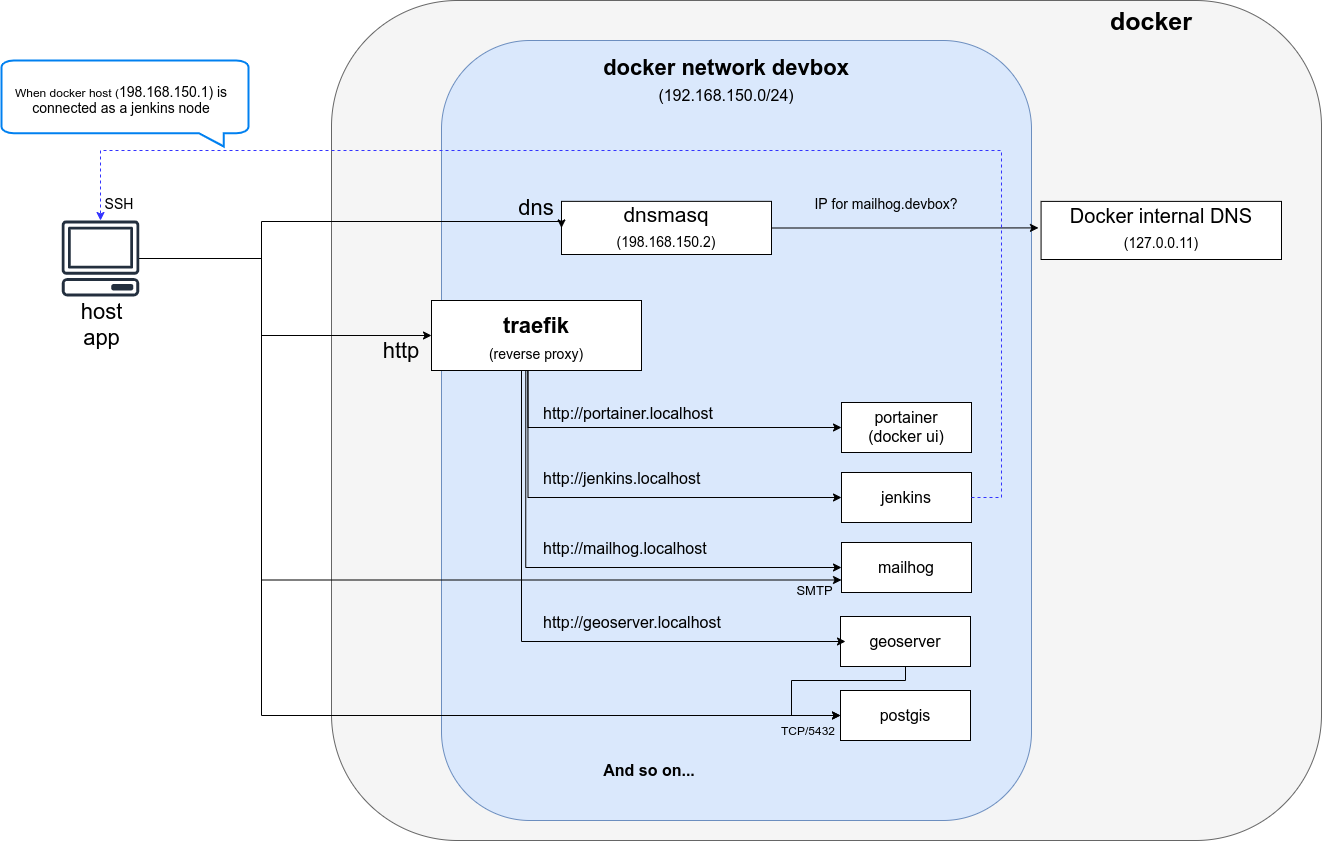
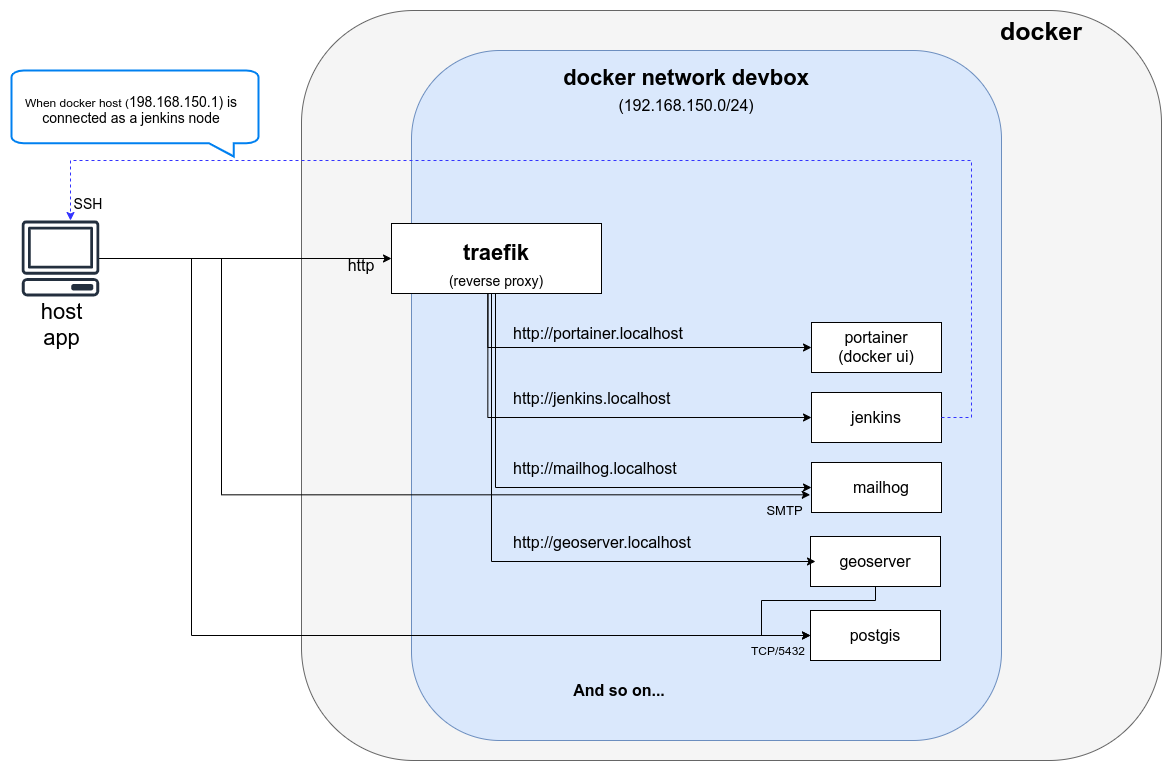
move out dnsmasq (closes #3)

diff --git a/README.md b/README.md
@@ -1,6 +1,6 @@
 # mborne/docker-devbox
 
-This repository provides a framework to setup a local dev environment with docker.
+This repository provides a framework to setup a **local dev environment** with docker.
 
 ## Key points
 
@@ -8,7 +8,6 @@ This repository provides a framework to setup a local dev environment with docke
 * [traefik](https://hub.docker.com/_/traefik) provides nice URL for web services (ex : http://kibana.localhost)
 * Containers run on the same network named `devbox` (`192.168.150.0/24`) to simplify communication between containers/stacks
 * Named volumes allows data persistence to ease the purge of running services
-* An optional [dnsmasq](dnsmasq/README.md) instance allows container name resolution from host (ex : `openldap.devbox`, `mailhog.devbox`, `postgis.devbox`, etc.) to avoid port exposure while coding new services on host
 
 It also provides a set of sample stacks (usual dependencies for my projects, sandbox, experiments, etc.)
 
@@ -32,36 +31,28 @@ docker network create -d bridge \
 
 * Run [traefik](traefik/README.md) ([whoami](whoami/README.md) provide a simple example to understand traefik)
 
-* Start [dnsmasq](dnsmasq/README.md) and add `192.168.150.2` as DNS server on host (optional)
-
-```bash
-cd dnsmasq
-docker-compose up -d
-# configure your system to add 192.168.150.2 as a DNS server...
-```
-
 
 ## Stacks
 
 ### Core services
 
-| Name                         | Description                                                                                          |
-| ---------------------------- | ---------------------------------------------------------------------------------------------------- |
-| [traefik](traefik/README.md) | Reverse proxy providing `http://<service>.${HOST_HOSTNAME}` URLs according to labels                 |
-| [dnsmasq](dnsmasq/README.md) | DNS server (`*.localhost` -> `127.0.0.1`, `*.devbox` -> container IP, `other` -> external DNS server |
-| [whoami](whoami/README.md)   | Trivial service to test and understand traefik                                                       |
+| Name                             | Description                                                                                 |
+|----------------------------------|---------------------------------------------------------------------------------------------|
+| [traefik](traefik/README.md)     | Reverse proxy providing URLs according to labels (ex : `http://<service>.${HOST_HOSTNAME}`) |
+| [whoami](whoami/README.md)       | Trivial service to test and understand traefik                                              |
+| [portainer](portainer/README.md) | Docker web UI                                                                               |
 
 ## ELK
 
 | Name                                     | Description             |
-| ---------------------------------------- | ----------------------- |
+|------------------------------------------|-------------------------|
 | [elasticsearch](elasticsearch/README.md) | elasticsearch (2 nodes) |
 | [kibana](kibana/README.md)               | kibana                  |
 
 ### Spatial
 
 | Name                                                 | Description                                       |
-| ---------------------------------------------------- | ------------------------------------------------- |
+|------------------------------------------------------|---------------------------------------------------|
 | [postgis](postgis/README.md)                         | Store spatial data (tables with geometry columns) |
 | [geoserver](geoserver/README.md)                     | Render spatial data (WMS, WFS, WMTS)              |
 | [geonetwork](geonetwork/README.md) (CSW, CSW-T)      | Store metadata (CSW, CSW-T)                       |
@@ -70,14 +61,14 @@ docker-compose up -d
 ### Authentication
 
 | Name                           | Description                  |
-| ------------------------------ | ---------------------------- |
+|--------------------------------|------------------------------|
 | [openldap](openldap/README.md) | LDAP server and admin UI     |
 | [keycloak](keycloak/README.md) | SSO identity server (OAuth2) |
 
 ### Storage
 
 | Name                             | Description                                   |
-| -------------------------------- | --------------------------------------------- |
+|----------------------------------|-----------------------------------------------|
 | [gogs](gogs/README.md)           | GIT hosting                                   |
 | [nexus](nexus/README.md)         | Artefact hosting (docker image, deb, rpm,...) |
 | [owncloud](owncloud/README.md)   | File hosting                                  |
@@ -86,16 +77,17 @@ docker-compose up -d
 ### Continuous integration
 
 | Name                             | Description           |
-| -------------------------------- | --------------------- |
+|----------------------------------|-----------------------|
 | [jenkins](jenkins/README.md)     | Continous Integration |
 | [sonarqube](sonarqube/README.md) | Code quality          |
 
 ### Various
 
 | Name                           | Description                        |
-| ------------------------------ | ---------------------------------- |
+|--------------------------------|------------------------------------|
 | [mailhog](mailhog/README.md)   | Web and API based SMTP test server |
 | [rabbitmq](rabbitmq/README.md) | Message broker                     |
+| [drupal](drupal/README.md)     | CMS                                |
 
 ## License
 
